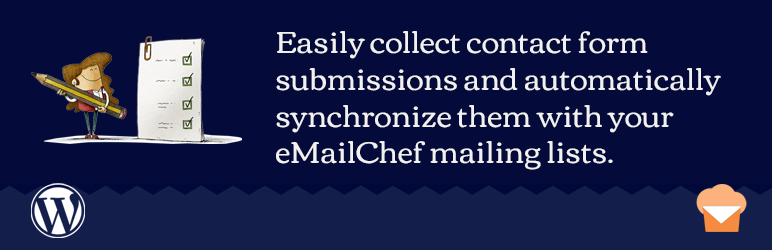
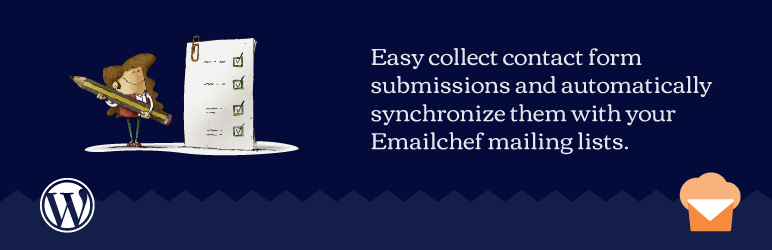
Bump to new version 2.4

Changed region(s): [[0.0311, 0.112, 0.9326, 0.7], [0.8705, 0.672, 0.9948, 0.952], [0.0311, 0.7, 0.1244, 0.952]]

diff --git a/admin/partials/emailchef-page-forms-form.php b/admin/partials/emailchef-page-forms-form.php
@@ -3,7 +3,7 @@
         <tbody>
         <tr>
             <th scope="row"><label
-                    for="<?php echo htmlentities($driverName, ENT_QUOTES) ?>-<?php echo htmlentities($id, ENT_QUOTES) ?>-list"><?php echo __('eMailChef List:', 'emailchef') ?></label>
+                    for="<?php echo htmlentities($driverName, ENT_QUOTES) ?>-<?php echo htmlentities($id, ENT_QUOTES) ?>-list"><?php echo __('Emailchef List:', 'emailchef') ?></label>
             </th>
             <td>
                 <p class="warning-select-list"><?php echo __('Select the list and save.', 'emailchef') ?></p>
@@ -30,14 +30,14 @@
                     <p><?php echo __('Save to reload list fields', 'emailchef') ?></p>
                 </div>
                 <div class="content-map">
-                    <p><?php echo __('Map form fields with eMailChef List fields. <br><em class="at-least-email">At least an email field needs to be mapped to enable the connection.</em>', 'emailchef') ?></p>
+                    <p><?php echo __('Map form fields with Emailchef List fields. <br><em class="at-least-email">At least an email field needs to be mapped to enable the connection.</em>', 'emailchef') ?></p>
                     <p><?php echo __('Remember to save your changes.', 'emailchef') ?></p>
                     <div class="form-table-container">
                         <table class="form-table">
                             <thead>
                             <tr>
                                 <th><?php echo __('Form field', 'emailchef') ?></th>
-                                <th><?php echo __('eMailChef List field', 'emailchef') ?></th>
+                                <th><?php echo __('Emailchef List field', 'emailchef') ?></th>
                             </tr>
                             </thead>
                             <tbody>

diff --git a/admin/class-emailchef-admin.php b/admin/class-emailchef-admin.php
@@ -82,16 +82,16 @@ class Emailchef_Admin {
 	 * Menu and submenu in admin
 	 */
 	public function menu() {
-		add_menu_page( 'emailchef', 'eMailChef', 'manage_options', 'emailchef', array(
+		add_menu_page( 'emailchef', 'Emailchef', 'manage_options', 'emailchef', array(
 			$this,
 			'page_forms',
 		), 'dashicons-email-alt', 50 );
 
-		add_submenu_page( 'emailchef', 'eMailChef Forms', __( 'Forms', 'emailchef' ), 'manage_options', 'emailchef', array(
+		add_submenu_page( 'emailchef', 'Emailchef Forms', __( 'Forms', 'emailchef' ), 'manage_options', 'emailchef', array(
 			$this,
 			'page_forms',
 		) );
-		add_submenu_page( 'emailchef', 'eMailChef Settings', __( 'Settings', 'emailchef' ), 'manage_options', 'emailchef-options', array(
+		add_submenu_page( 'emailchef', 'Emailchef Settings', __( 'Settings', 'emailchef' ), 'manage_options', 'emailchef-options', array(
 			$this,
 			'page_options',
 		) );

diff --git a/emailchef.php b/emailchef.php
@@ -8,7 +8,7 @@
  * Plugin Name:       eMailChef
  * Plugin URI:        http://emailchef.com/
  * Description:       eMailChef: The simplest recipe to cook amazing newsletters. Automatically synchronize form submissions from Contact Form 7, FSCF and Jetpack.
- * Version:           2.3
+ * Version:           2.4
  * Author:            dueclic
  * Author URI:        https://www.dueclic.com
  * License:           GPL-2.0+
@@ -27,14 +27,14 @@ function emailchef_write_log($log)
 {
 	if (true === WP_DEBUG) {
 		if (is_array($log) || is_object($log)) {
-			error_log('eMailChef' . print_r($log, true));
+			error_log('Emailchef' . print_r($log, true));
 		} else {
-			error_log('eMailChef' . $log);
+			error_log('Emailchef' . $log);
 		}
 	}
 }
 
-// Load eMailChef library
+// Load Emailchef library
 include plugin_dir_path(__FILE__) . 'lib/emailchef/vendor/autoload.php';
 
 /**

diff --git a/admin/partials/emailchef-page-forms-display.php b/admin/partials/emailchef-page-forms-display.php
@@ -1,5 +1,5 @@
-<h1><?php _e("eMailChef Forms", "emailchef"); ?></h1>
-<p><?php echo sprintf(__('Connect contact forms to automatically populate your <a target="_blank" href="%s">eMailChef</a> lists on every submission.', 'emailchef'),'http://emailchef.com/'); ?></p>
+<h1><?php _e("Emailchef Forms", "emailchef"); ?></h1>
+<p><?php echo sprintf(__('Connect contact forms to automatically populate your <a target="_blank" href="%s">Emailchef</a> lists on every submission.', 'emailchef'),'http://emailchef.com/'); ?></p>
 <p><?php echo __('These are the contact forms found in your site:', 'emailchef'); ?></p>
 <script>
 	var urlToSettingsPage = <?php echo json_encode(admin_url('admin.php?page=emailchef-options')); ?>

diff --git a/.wordpress-org/readme/README.md b/.wordpress-org/readme/README.md
@@ -3,8 +3,8 @@ Contributors: dueclic, hanicker
 Donate link: https://www.dueclic.com
 Tags: emailchef, newsletter, email, marketing, automation, form, forms
 Requires at least: 5.0
-Tested up to: 6.3
-Stable tag: 2.3
+Tested up to: 6.4.1
+Stable tag: 2.4
 License: GPLv2 or later
 License URI: http://www.gnu.org/licenses/gpl-2.0.html
 
@@ -41,6 +41,10 @@ Register for free in eMailChef and get your free trial period. Higher plans can 
 2. Connect your forms with eMailChef
 
 == Changelog ==
+
+= 2.4 = 
+* WP 6.4.1 compatibility
+* brand rename change
 
 = 2.3 =
 * WP 6.3 compatibility
